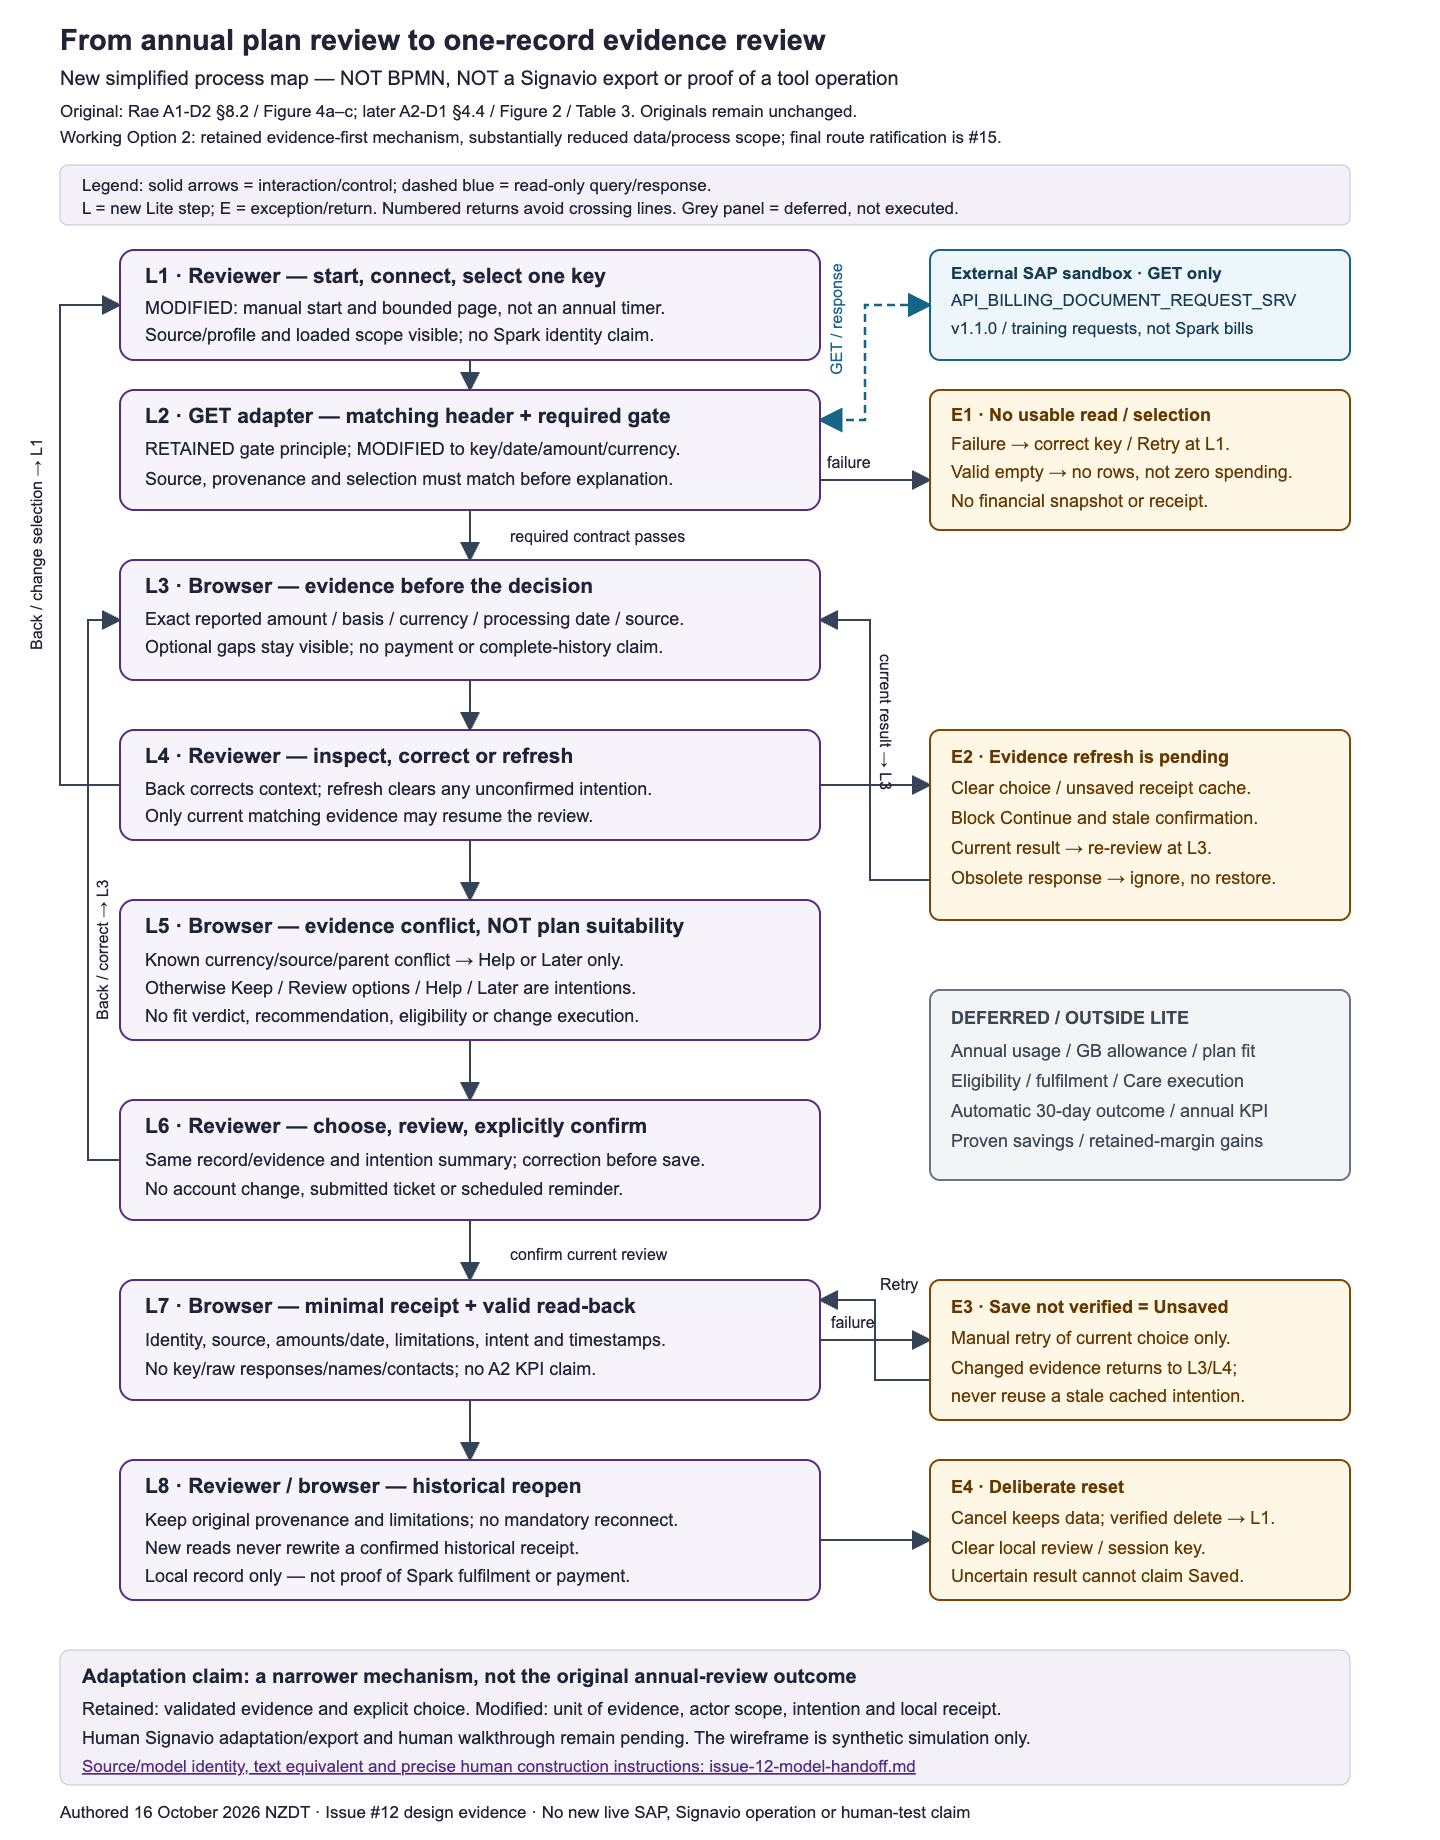
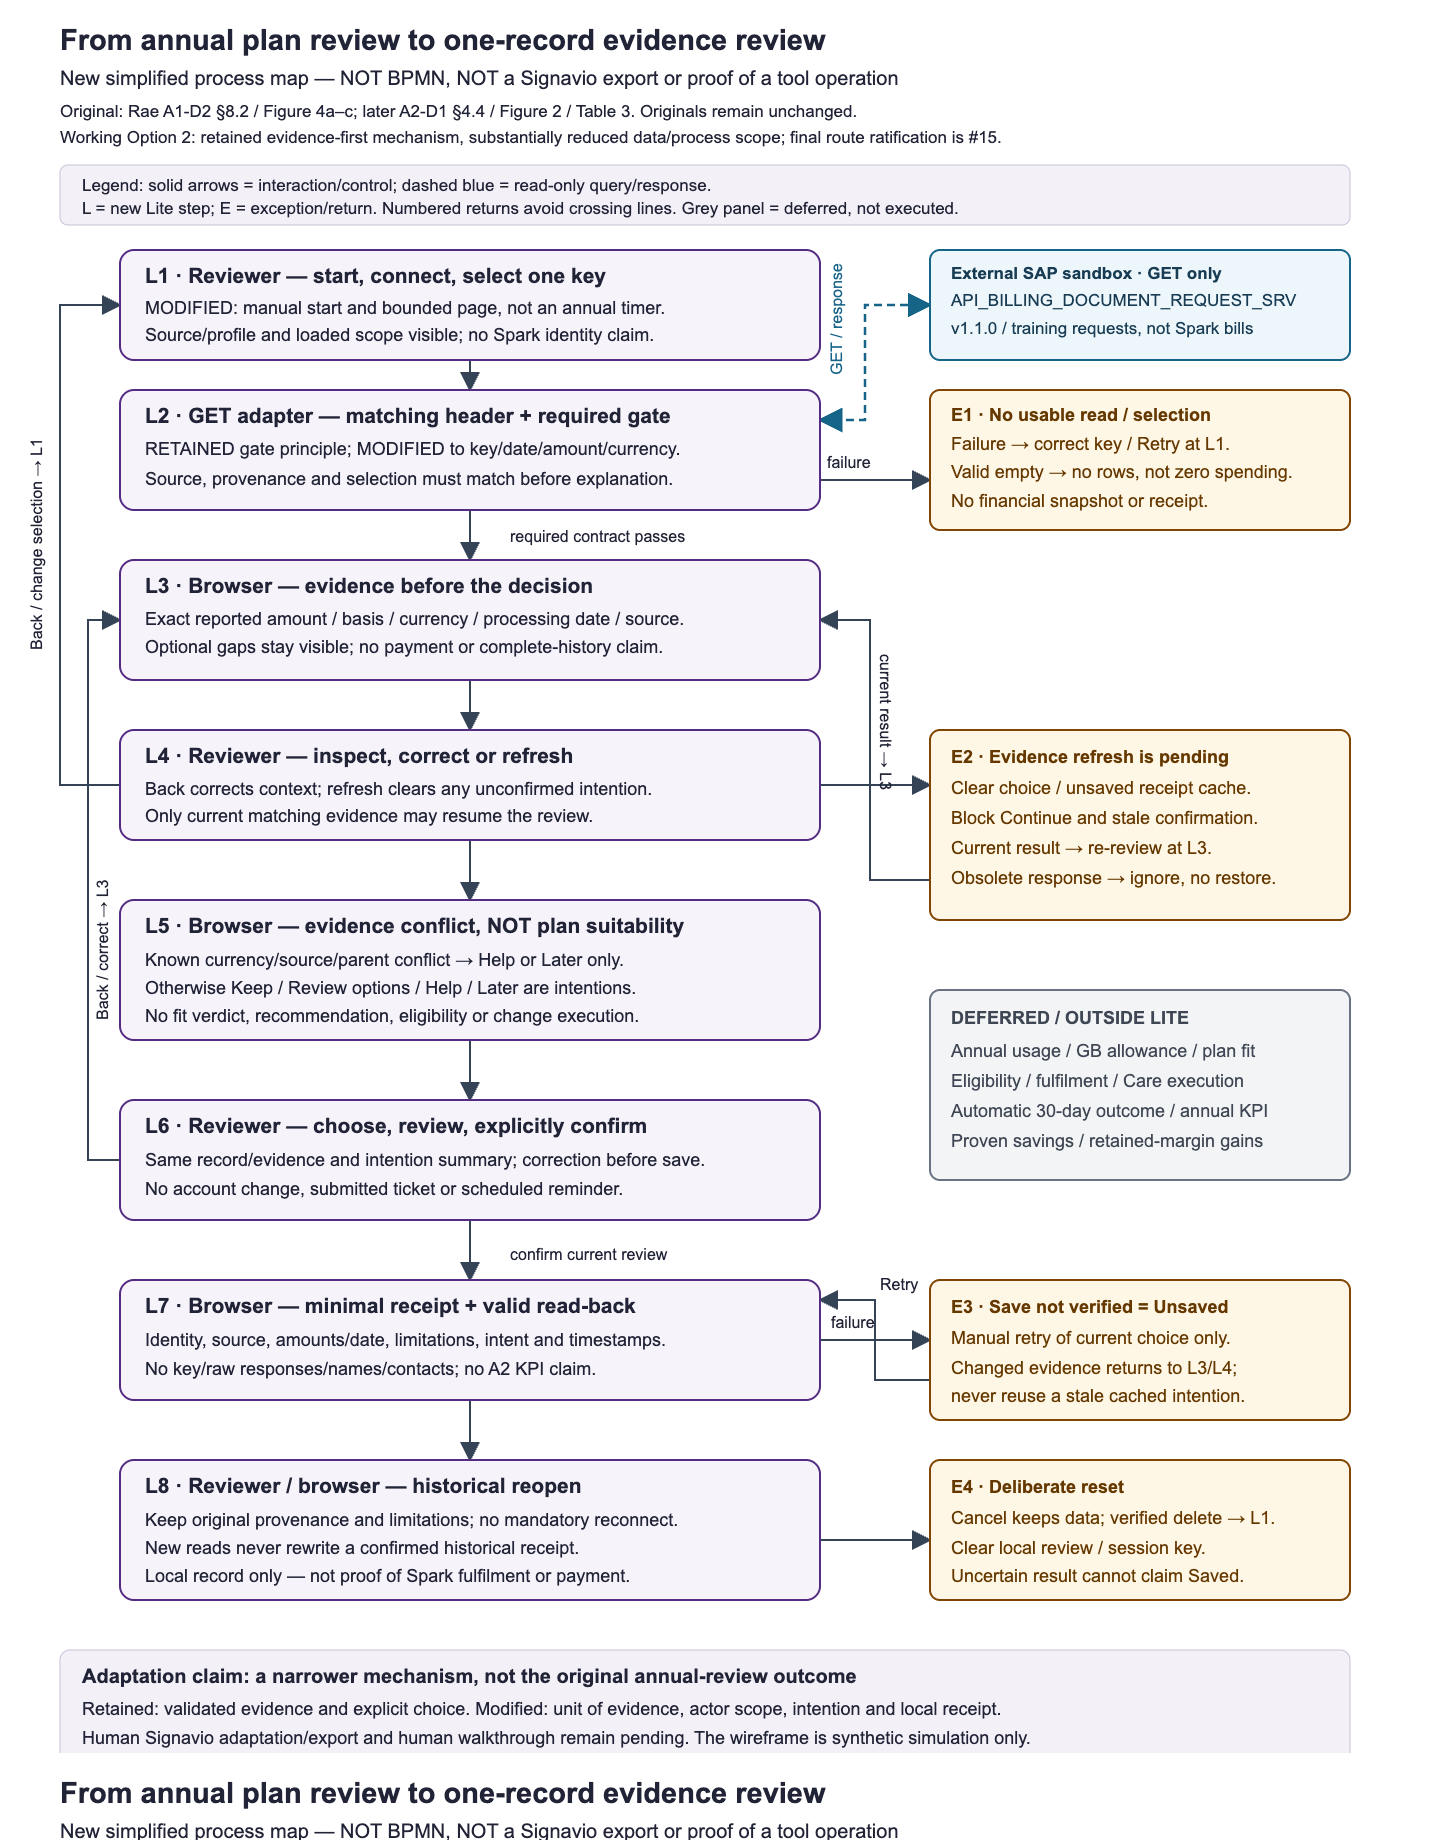
docs(a3): record artifact validation and human dependencies

Changed region(s): [[0.0312, 0.9603, 0.6875, 1.0]]

diff --git a/docs/validation/issue-12-acceptance.md b/docs/validation/issue-12-acceptance.md
@@ -51,6 +51,18 @@ git diff --check
 
 `ISSUE12_QA_TMP` optionally selects a scratch directory for the inline-script syntax check. This execution used OpenCode's approved temporary directory, not repository build output. Runtime/browser, tested artifact identity, actual pass counts, source/link checks and visual notes are recorded with the final run below and in the [output file](issue-12-artifact-check-results.txt). Automated checks are not an actual human walkthrough or full accessibility audit.
 
+### Final executed artifact checks
+
+Tested artifact/code identity: **`1b69b5e81e2611ba548f30833895dbcee6eebd5f`**, after integration of main `f829c6c`. macOS; **Node v24.20.0**, **Playwright 1.62.1**, installed headless **Chrome 155.0.8059.80**. The earlier development iterations used Chrome 155.0.8059.40; the final captured browser reports .80. No version is inferred from the old app logs.
+
+- **39/39 artifact groups PASS**, unfiltered: ten states at 1280/1366/390px, three pending-resolution outcomes, correction/credit/stale manual result, history across failed source, old-receipt/new-selection notice, keyboard navigation, structure/selected-palette contrast and full SVG rendering. External requests **0**; browser-storage records **0**.
+- **81 authored relative file/anchor links PASS**; HTML parser/unique IDs/three-screen structure and both SVG XML checks pass. All four Rae manifest counts/hashes, v4/spec/V3 hashes and byte-identical original-model extraction pass. External authenticated-source limits remain disclosed, not marked verified by these checks.
+- Inline JavaScript and artifact-check syntax pass. Selected normal-text palette ratios: **15.24, 7.17, 10.17, 8.68, 8.32**, all above 4.5:1; this is not a full accessibility certification.
+- Visually inspected the complete new map, the existing comparison matrix and the primary original model images. Inspected every wireframe variant/screen, including temporary full-state captures for not-checked/unavailable/absent/complete, invalid/empty, loaded selection, conflict, ordinary decision and changed-selection history. Kept only seven useful screenshot files below; no clipping/overlap/page overflow observed in the inspected design states. All labels/limitations and focus routes agree with the map/rationale.
+- **Application suite deliberately not run.** App, frozen sources and earlier evidence are byte-unchanged relative to integrated main. `git diff --check` passes. Subsequent updates record results/links/screenshots only, not changed wireframe/process/QA logic.
+
+These outcomes complete the **agent checks**, not the pending human/model-owner/#15 fields in the criteria table. The PR remains draft.
+
 ### Focused screenshot evidence
 
 - [Select / source / scope](issue-12-wireframe-select-desktop.png)

diff --git a/docs/development/issue-12-opencode.md b/docs/development/issue-12-opencode.md
@@ -34,6 +34,8 @@ Prepared the complete H1–H8 neutral human protocol and observation keys before
 - Inspection clarified partial-detail currency to match the selected header and added an explicit notice when an old historical illustration is opened after a different current selection. Agent/source inspection is separate from human feedback.
 - The next run passed the scenario/keyboard/contrast checks but timed out capturing a standalone SVG using Playwright's HTML full-page calculation. A complete 1440×1840 browser viewport capture worked; updated only the QA capture method, retaining text-bound checks and the unchanged diagram. This was a harness/capture limitation, not a human design finding.
 - Source/link checking uses a separate read-only Python script. Browser checks use only file:// artifacts with all HTTP(S) requests intercepted/forbidden. Runtime/browser and final commands/results are recorded in the acceptance/results files. Earlier app test logs, live evidence/specifications/candidate/archive files are not altered; no app suite was rerun.
+- Executed the final artifact/source commands on **`1b69b5e81e2611ba548f30833895dbcee6eebd5f`** after the main integration: **39/39 artifact groups** and **81 authored relative links** passed, plus the source/hash/markup and inline-script checks. The browser reported Node v24.20.0 / Chrome 155.0.8059.80 with external Playwright 1.62.1; temporary files stayed in the approved scratch directory. Recorded full outputs in the separate validation file. No application acceptance command was run.
+- Inspected the full new map and primary original diagrams/matrix, every staged wireframe variant and desktop/mobile correction/pending/history states. Temporary full-state captures support inspection without adding redundant screenshots to the repository; seven focused images are retained. Human-result fields remain pending. Subsequent changes record validation/status and screenshots only.
 
 ## Deliverable and human gate
 

diff --git a/docs/validation/issue-12-walkthrough.md b/docs/validation/issue-12-walkthrough.md
@@ -78,6 +78,8 @@ The user/team must fill only what actually occurred, keeping role (e.g. teammate
 
 Automated checks are reproducible with `node docs/validation/issue-12-artifact-check.mjs` using Playwright and an installed browser (instructions in the acceptance record). They stage ten synthetic variants at desktop/mobile widths, test correction/choice/receipt/pending guards, inspect layout/contrast and render the complete SVG. The final command output is linked from acceptance. **Neither a pass nor agent visual inspection fills the human-results table above.**
 
+Final artifact run on `1b69b5e81e2611ba548f30833895dbcee6eebd5f`: **39/39 PASS**, with 81 authored relative links/source/markup checks passing separately. Node v24.20.0, Playwright 1.62.1 and installed headless Chrome 155.0.8059.80 on macOS. Zero external requests and browser-storage records. Full diagram and all state variants were visually inspected, with representative captures retained; human evaluation is still **Pending — not yet conducted**.
+
 ### Handoff to #9 / #15—not changes to another member's work
 
 - **#9:** check comprehension of source/date/basis, keyboard correction/recovery and pending-choice invalidation in the integrated app, using its actual participant/heuristic evidence. This wireframe has related semantics but is not a replacement acceptance run or a report of newly reproduced app bugs.

diff --git a/decisions/A3_选题工作表.md b/decisions/A3_选题工作表.md
@@ -1,5 +1,7 @@
 # A3 选题工作表
 
+**2026-10-16追加说明：** 四人#11实际评论确认已记录，详见本表§8及英文决策记录§11。以下15 October提议/待确认行保留为历史；#15最终ratification与新#12材料的真实human walkthrough不由这些确认替代。
+
 **更新：** 15 October 2026（Issue #11 四方案比较与提议记录；不是团队会议日期）<br>
 **当前阶段：** 比较文档完成；已有 Billing Review Lite 实施方向，团队最终确认尚待取得；不是 Submission Draft。<br>
 **选择状态：** **Proposed by Francis; pending confirmation by the full team.**<br>
